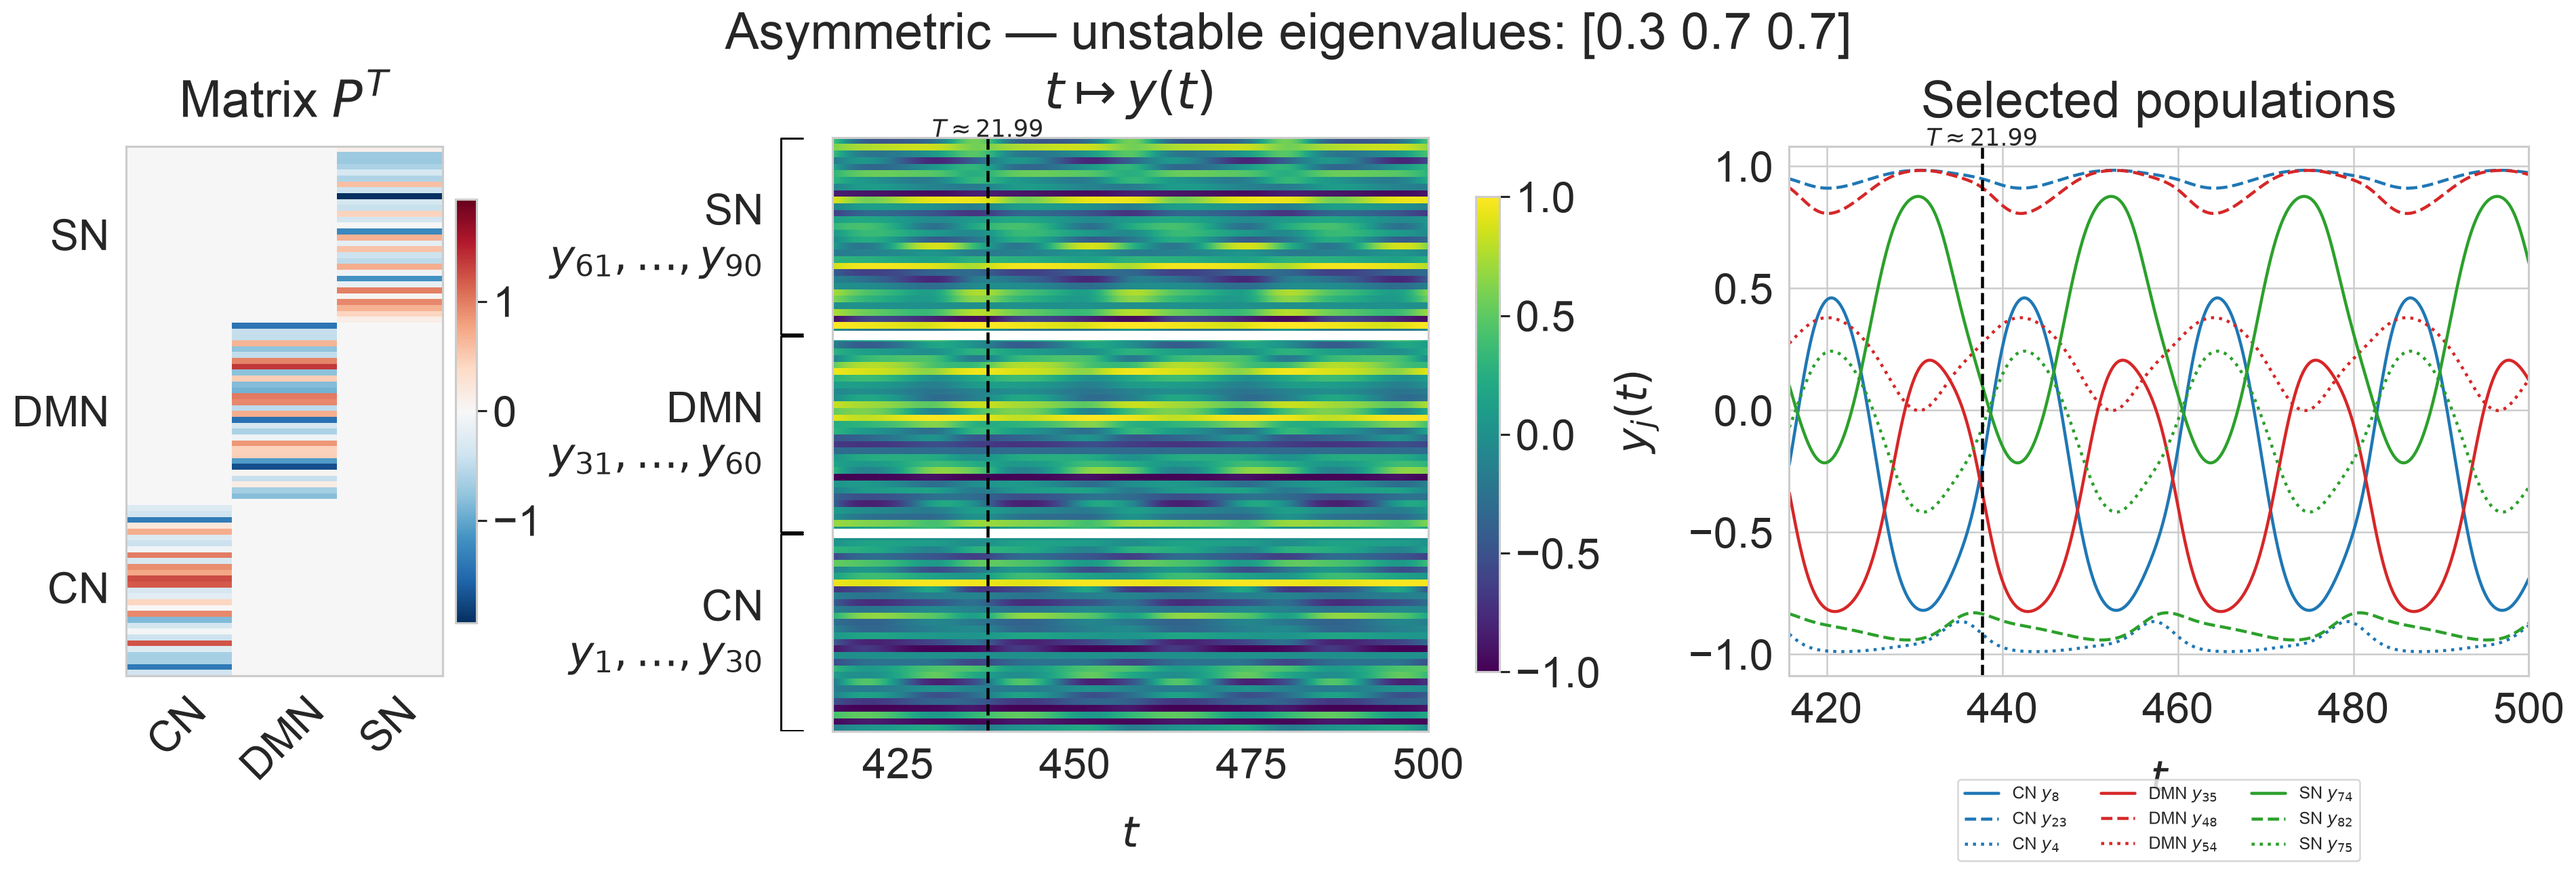
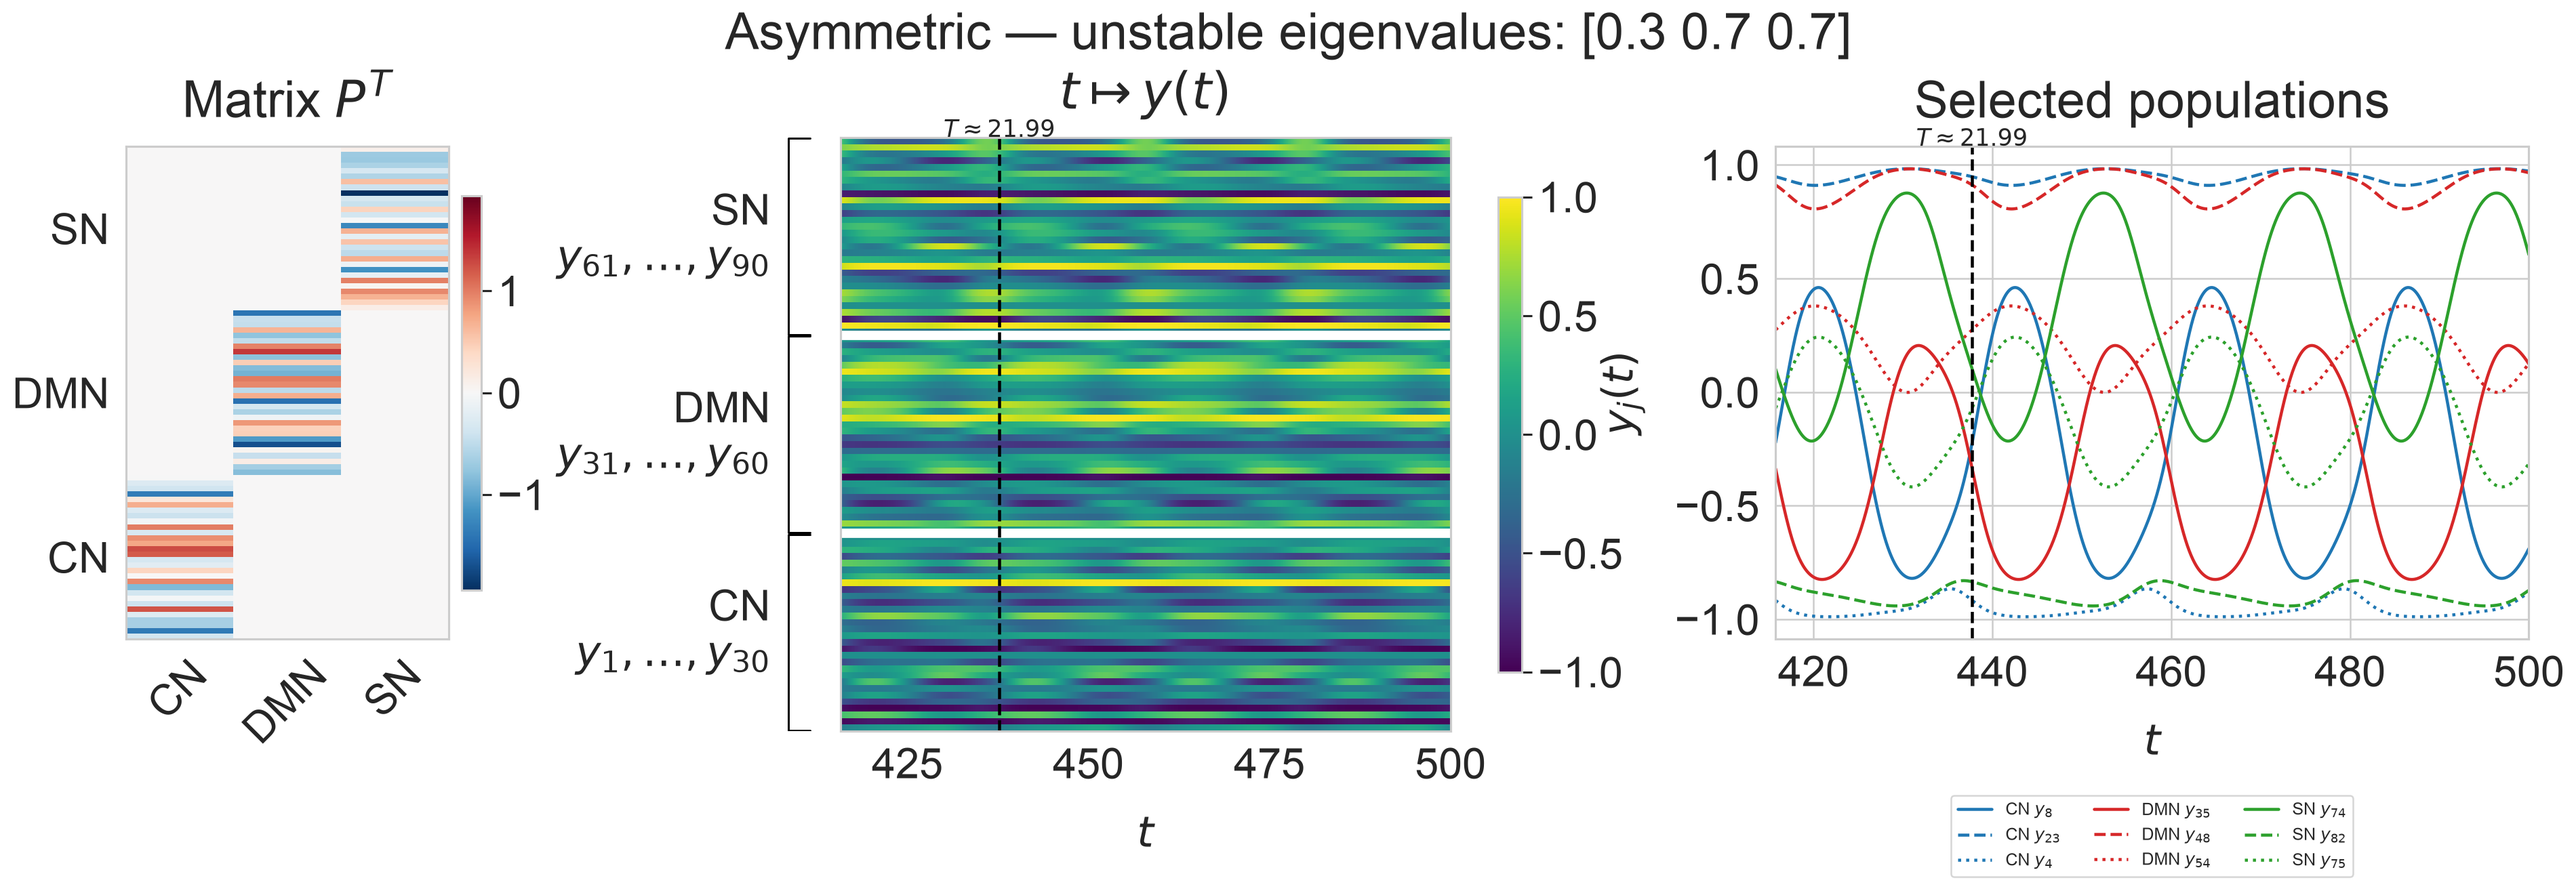
Move the legend of the population figures below the t label
In the "Selected populations" panel the legend, anchored at -0.18, covered
the x label t. Anchor it at -0.30 and redraw both populations_*.png from the
cached results.

diff --git a/train_lv.py b/train_lv.py
@@ -360,8 +360,9 @@ def population_row(fig, grid, key, p_norm, y_norm):
 
     axx.set_title("Selected populations")
     axx.set_ylabel(r"$y_j(t)$")
+    # Below the x label t, which an anchor at -0.18 used to cover.
     axx.legend(fontsize=10, ncol=3, loc="upper center",
-               bbox_to_anchor=(.5, -.18))
+               bbox_to_anchor=(.5, -.30))
 
     period_time = t0 + T
     for ax in [axy, axx]:
